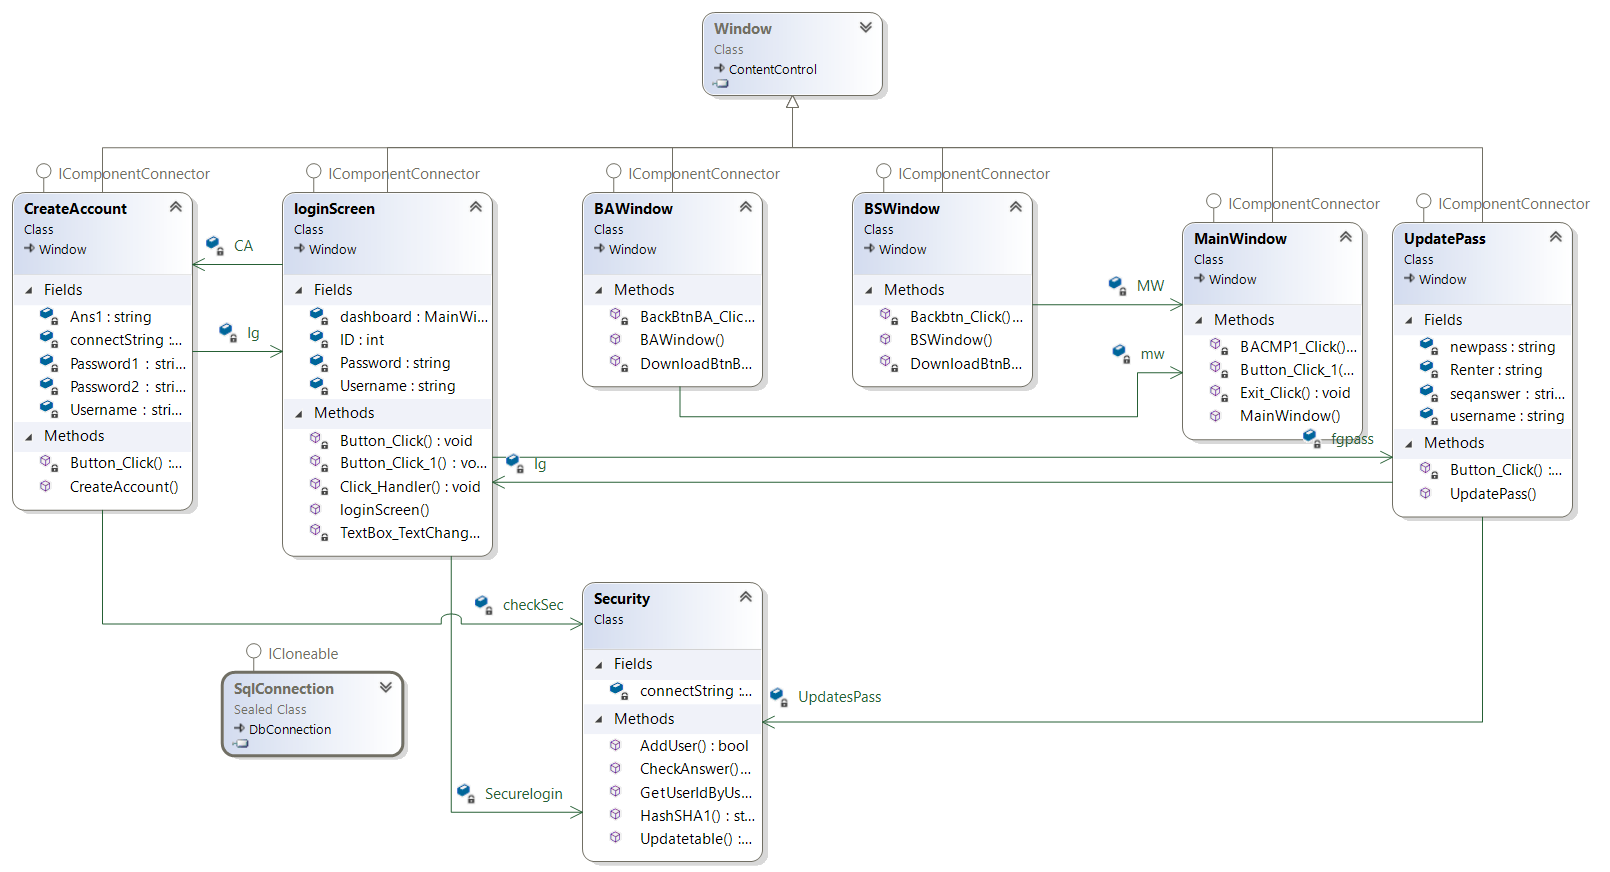
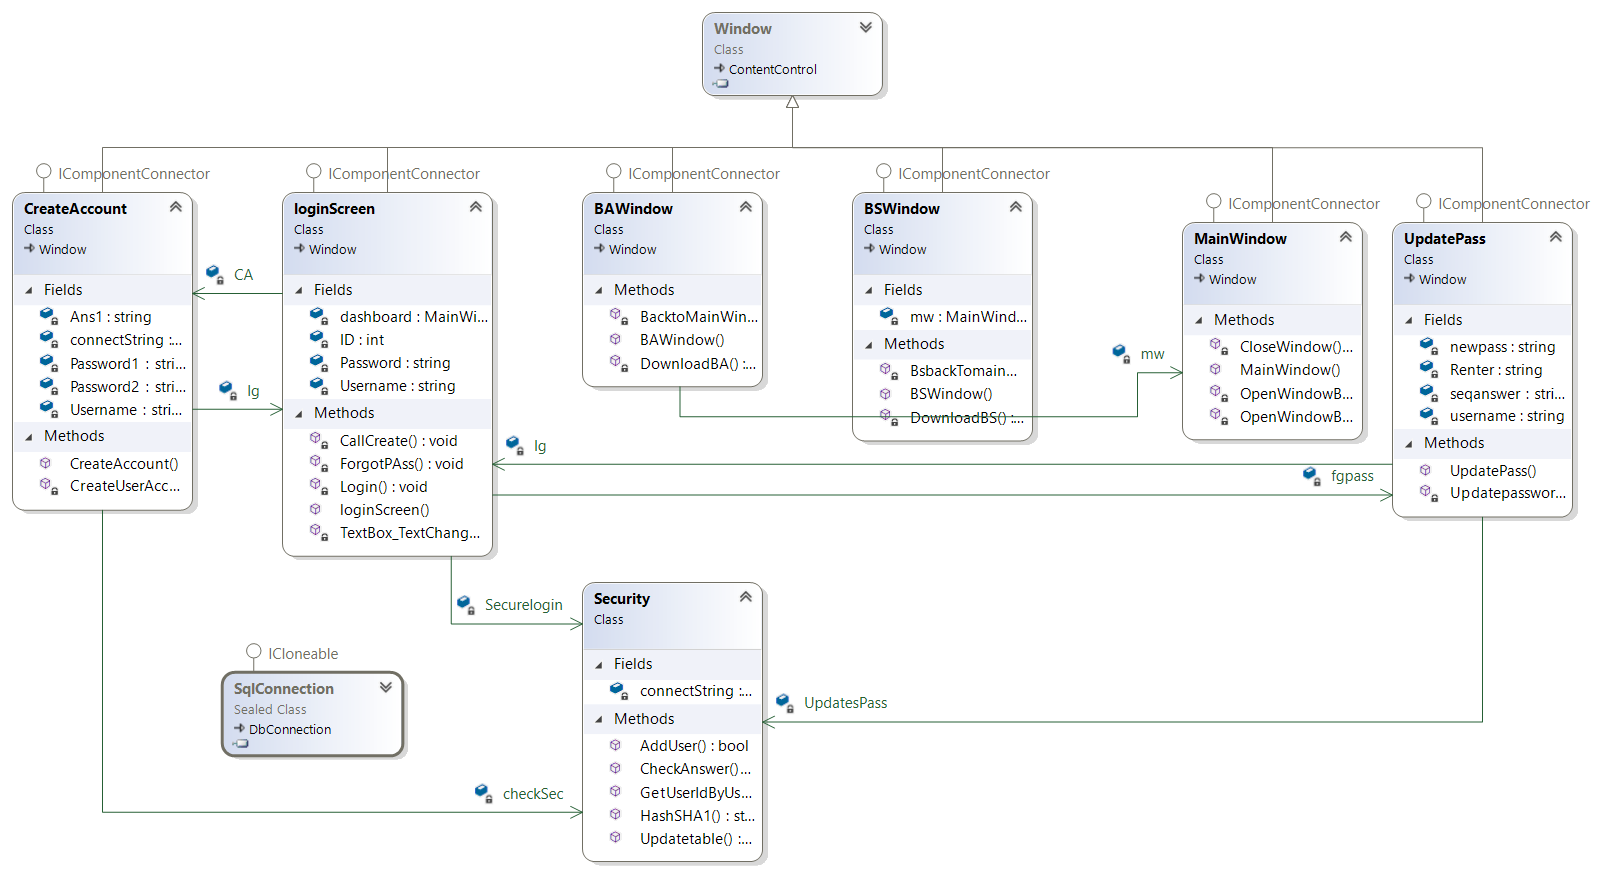
updated class diagram

diff --git a/PrototypeSWE/loginScreen.xaml b/PrototypeSWE/loginScreen.xaml
@@ -13,12 +13,12 @@
         <TextBox Name="txtUser" Height="31" Margin="33,134,303,0" TextWrapping="Wrap" VerticalAlignment="Top" TextChanged="TextBox_TextChanged" AutomationProperties.IsRequiredForForm="True" />
         <Label Content="Password *"  Margin="35,165,469,0" VerticalAlignment="Top" FontSize="20" RenderTransformOrigin="0.592,1.529" Height="34" FontStyle="Italic"/>
         <PasswordBox Name="txtpass"  Margin="34,215,303,0" VerticalAlignment="Top" Height="33" AutomationProperties.IsRequiredForForm="True"/>
-        <Button Content="Submit"  Margin="199,323,279,0" VerticalAlignment="Top" Background="#0288D1" Click="Button_Click" RenderTransformOrigin="0.513,1.033" Height="23" FontWeight="Bold" FontStyle="Italic"/>
-        <Button Content="Create New Account" Height="26" Margin="179,422,261,0" VerticalAlignment="Top" Background="#00C853" Click="Button_Click_1" RenderTransformOrigin="1.213,0.215" FontStyle="Italic" FontSize="16"/>
+        <Button Content="Submit"  Margin="199,323,279,0" VerticalAlignment="Top" Background="#0288D1" Click="Login" RenderTransformOrigin="0.513,1.033" Height="23" FontWeight="Bold" FontStyle="Italic"/>
+        <Button Content="Create New Account" Height="26" Margin="179,422,261,0" VerticalAlignment="Top" Background="#00C853" Click="CallCreate" RenderTransformOrigin="1.213,0.215" FontStyle="Italic" FontSize="16"/>
         <Label x:Name="loginError" Content="" Height="27" Margin="0,270,290,0" VerticalAlignment="Top" RenderTransformOrigin="0.515,0.957" HorizontalAlignment="Right" Width="277">
 
         </Label>
-        <Button Content="Forgot password?" Click="Click_Handler"  x:Name="forgotpass"  HorizontalAlignment="Left" Margin="209,363,0,0" VerticalAlignment="Top" Width="124" FontStyle="Italic" Foreground="#FF0445F1" RenderTransformOrigin="0.571,-0.624" Height="19" FontWeight="Bold" FontSize="12">
+        <Button Content="Forgot password?" Click="ForgotPAss"  x:Name="forgotpass"  HorizontalAlignment="Left" Margin="209,363,0,0" VerticalAlignment="Top" Width="124" FontStyle="Italic" Foreground="#FF0445F1" RenderTransformOrigin="0.571,-0.624" Height="19" FontWeight="Bold" FontSize="12">
             <Button.Template>
                 <ControlTemplate TargetType="{x:Type Button}">
                     <ContentPresenter />

diff --git a/PrototypeSWE/MainWindow.xaml b/PrototypeSWE/MainWindow.xaml
@@ -12,9 +12,9 @@
         <Grid >
             <Label   x:Name="Heading" Content="&#x9;&#x9;Welcome to Major Map&#xA;&#x9;"  HorizontalAlignment="Center" Height="66" Margin="72,47,0,0" VerticalAlignment="Top" Width="595" FontSize="22" FontWeight="Bold" FontStyle="Italic" Foreground="#FF2269E6"/>
             <Label   x:Name="headingSmall" Content="&#x9;Suggested program plan for a Computer Science major" Height="25" Margin="204,73,178,0" VerticalAlignment="Top" Width="380" Foreground="#FF2269E6"/>
-            <Button x:Name="BSCMPS" Content="BS" HorizontalAlignment="Left" Height="40" Margin="20,155,0,0" VerticalAlignment="Top" Width="201" Click="Button_Click_1" Background="#F4F9FE" Foreground="#FF2269E6" FontSize="20" FontWeight="Bold" FontStyle="Italic"/>
-            <Button x:Name="BACMP1" Content="BA" HorizontalAlignment="Right" Height="40" Margin="0,155,31,0" VerticalAlignment="Top" Width="201" Background="#F4F9FE"  Foreground="#FF2269E6" FontWeight="Bold" FontSize="20" FontStyle="Italic" Click="BACMP1_Click"/>
-            <Button x:Name="Exit" Content="X" Margin="721,10,0,0" Width="31" RenderTransformOrigin="-2.573,0.527" FontSize="20" Background="#FFF5EDED" Click="Exit_Click" VerticalAlignment="Top" HorizontalAlignment="Right"/>
+            <Button x:Name="BSCMPS" Content="BS" HorizontalAlignment="Left" Height="40" Margin="20,155,0,0" VerticalAlignment="Top" Width="201" Click="OpenWindowBS" Background="#F4F9FE" Foreground="#FF2269E6" FontSize="20" FontWeight="Bold" FontStyle="Italic"/>
+            <Button x:Name="BACMP1" Content="BA" HorizontalAlignment="Right" Height="40" Margin="0,155,31,0" VerticalAlignment="Top" Width="201" Background="#F4F9FE"  Foreground="#FF2269E6" FontWeight="Bold" FontSize="20" FontStyle="Italic" Click="OpenWindowBA"/>
+            <Button x:Name="Exit" Content="X" Margin="721,10,0,0" Width="31" RenderTransformOrigin="-2.573,0.527" FontSize="20" Background="#FFF5EDED" Click="CloseWindow" VerticalAlignment="Top" HorizontalAlignment="Right"/>
         </Grid>
         <Separator Height="2" Margin="0,104,0,0" VerticalAlignment="Top" Foreground="#FF080808"/>
     </Grid>

diff --git a/PrototypeSWE/BAWindow.xaml b/PrototypeSWE/BAWindow.xaml
@@ -20,8 +20,8 @@
         <Border BorderBrush="#FF0655A4" BorderThickness="2" HorizontalAlignment="Left" Height="337" Margin="7,65,0,0" VerticalAlignment="Top" Width="240"/>
         <Label Content="Arrows show relationships" HorizontalAlignment="Left" Height="29" Margin="90,201,0,0" VerticalAlignment="Top" Width="148"/>
         <Button x:Name="EditBA" Content="Edit Map" HorizontalAlignment="Right" Margin="0,0,21,107" VerticalAlignment="Bottom" Width="75" Height="26" Background="#FF075DB2" Foreground="#FFF7F6F6" VerticalContentAlignment="Center"/>
-        <Button x:Name="BackBtnBA" Content="Back" HorizontalAlignment="Right" Margin="0,65,21,0" VerticalAlignment="Top" Width="75" Height="28" Background="#FF075DB2" Click="BackBtnBA_Click" Foreground="#FFF9F9F9"/>
-        <Button x:Name="DownloadBtnBA" Content="Download" HorizontalAlignment="Left" Margin="604,0,0,104" Width="75" Height="26" Background="#FF075DB2" Foreground="#FFF7F6F6" VerticalContentAlignment="Center" VerticalAlignment="Bottom" Click="DownloadBtnBA_Click"/>
+        <Button x:Name="BackBtnBA" Content="Back" HorizontalAlignment="Right" Margin="0,65,21,0" VerticalAlignment="Top" Width="75" Height="28" Background="#FF075DB2" Click="BacktoMainWindow" Foreground="#FFF9F9F9"/>
+        <Button x:Name="DownloadBtnBA" Content="Download" HorizontalAlignment="Left" Margin="604,0,0,104" Width="75" Height="26" Background="#FF075DB2" Foreground="#FFF7F6F6" VerticalContentAlignment="Center" VerticalAlignment="Bottom" Click="DownloadBA"/>
 
     </Grid>
 </Window>

diff --git a/PrototypeSWE/BSWindow.xaml b/PrototypeSWE/BSWindow.xaml
@@ -18,8 +18,8 @@
         <Border BorderBrush="#FF0655A4" BorderThickness="2" HorizontalAlignment="Left" Height="337" Margin="7,65,0,0" VerticalAlignment="Top" Width="240"/>
         <Label Content="Arrows show relationships" HorizontalAlignment="Left" Height="29" Margin="90,201,0,0" VerticalAlignment="Top" Width="148"/>
         <Button x:Name="EditBS" Content="Edit Map" HorizontalAlignment="Right" Margin="0,0,21,107" VerticalAlignment="Bottom" Width="75" Height="26" Background="#FF075DB2" Foreground="#FFF7F6F6" VerticalContentAlignment="Center"/>
-        <Button x:Name="Backbtn" Content="Back" HorizontalAlignment="Right" Margin="0,65,21,0" VerticalAlignment="Top" Width="75" Height="28" Background="#FF075DB2" Click="Backbtn_Click" Foreground="#FFFBFAFA"/>
-        <Button x:Name="DownloadBtnBS" Content="Download" HorizontalAlignment="Left" Margin="914,0,0,103" Width="75" Height="26" Background="#FF075DB2" Foreground="#FFF7F6F6" VerticalContentAlignment="Center" VerticalAlignment="Bottom" Click="DownloadBtnBS_Click"/>
+        <Button x:Name="Backbtn" Content="Back" HorizontalAlignment="Right" Margin="0,65,21,0" VerticalAlignment="Top" Width="75" Height="28" Background="#FF075DB2" Click="BsbackTomainWindow" Foreground="#FFFBFAFA"/>
+        <Button x:Name="DownloadBtnBS" Content="Download" HorizontalAlignment="Left" Margin="914,0,0,103" Width="75" Height="26" Background="#FF075DB2" Foreground="#FFF7F6F6" VerticalContentAlignment="Center" VerticalAlignment="Bottom" Click="DownloadBS"/>
 
     </Grid>
 </Window>

diff --git a/PrototypeSWE/CreateAccount.xaml b/PrototypeSWE/CreateAccount.xaml
@@ -35,7 +35,7 @@
                 </StackPanel>
             </PasswordBox.ToolTip>
         </PasswordBox>
-        <Button Content="Submit" HorizontalAlignment="Left" Margin="255,380,0,0" VerticalAlignment="Top" Width="185" Background="#0288D1" Click="Button_Click" RenderTransformOrigin="0.607,2.698" Height="41" FontSize="18"/>
+        <Button Content="Submit" HorizontalAlignment="Left" Margin="255,380,0,0" VerticalAlignment="Top" Width="185" Background="#0288D1" Click="CreateUserAccount" RenderTransformOrigin="0.607,2.698" Height="41" FontSize="18"/>
         <Label x:Name="ExistUser" Content="" HorizontalAlignment="Left" Margin="237,95,0,0" VerticalAlignment="Top" Width="217" Height="27" Foreground="#FFE80B0B"/>
         <Label Content="Confirm Password *" HorizontalAlignment="Left" Margin="14,217,0,0" VerticalAlignment="Top" Height="29" Width="167" FontSize="18"/>
         <Label x:Name="incorrect" Content="" HorizontalAlignment="Left" Margin="230,331,0,0" VerticalAlignment="Top" Width="277" Height="29" Foreground="#FFF30606"/>

diff --git a/PrototypeSWE/UpdatePass.xaml b/PrototypeSWE/UpdatePass.xaml
@@ -31,7 +31,7 @@
             </TextBox>
             <Label Content="Re enter Password" HorizontalAlignment="Left" Margin="41,230,0,0" VerticalAlignment="Top" Width="114"/>
         <TextBox x:Name="RnewPass" HorizontalAlignment="Left" Height="26" Margin="41,256,0,0" TextWrapping="Wrap" VerticalAlignment="Top" Width="248" AutomationProperties.IsRequiredForForm="True"/>
-        <Button Content="Submit" HorizontalAlignment="Left" Height="22" Margin="91,337,0,0" VerticalAlignment="Top" Width="114" Background="#0288D1" Click="Button_Click"/>
+        <Button Content="Submit" HorizontalAlignment="Left" Height="22" Margin="91,337,0,0" VerticalAlignment="Top" Width="114" Background="#0288D1" Click="Updatepassword"/>
         <Label x:Name="wrngpass" Content="" HorizontalAlignment="Left" Height="27" Margin="41,287,0,0" VerticalAlignment="Top" Width="193"/>
 
     </Grid>

diff --git a/PrototypeSWE/MainWindow.xaml.cs b/PrototypeSWE/MainWindow.xaml.cs
@@ -25,7 +25,7 @@ namespace PrototypeSWE
             InitializeComponent();
         }
 
-        private void Button_Click_1(object sender, RoutedEventArgs e)
+        private void OpenWindowBS(object sender, RoutedEventArgs e)
         {
             BSWindow bs = new BSWindow();
             bs.Show();
@@ -33,14 +33,14 @@ namespace PrototypeSWE
            
         }
 
-        private void BACMP1_Click(object sender, RoutedEventArgs e)
+        private void OpenWindowBA(object sender, RoutedEventArgs e)
         {
             BAWindow ba = new BAWindow();
             ba.Show();
             this.Close();
         }
 
-        private void Exit_Click(object sender, RoutedEventArgs e)
+        private void CloseWindow(object sender, RoutedEventArgs e)
         {
             this.Close();
         }

diff --git a/PrototypeSWE/loginScreen.xaml.cs b/PrototypeSWE/loginScreen.xaml.cs
@@ -38,7 +38,7 @@ namespace PrototypeSWE
 
         }
 
-        private void Button_Click(object sender, RoutedEventArgs e)
+        private void Login(object sender, RoutedEventArgs e)
         {
             Username = txtUser.Text;
             Password = txtpass.Password;
@@ -59,14 +59,14 @@ namespace PrototypeSWE
             }
         }
 
-        private void Button_Click_1(object sender, RoutedEventArgs e)
+        private void CallCreate(object sender, RoutedEventArgs e)
         {
             CA = new CreateAccount();
             CA.Show();
             this.Close();
         }
 
-        private void Click_Handler(object sender, RoutedEventArgs e)
+        private void ForgotPAss(object sender, RoutedEventArgs e)
         {
             fgpass = new UpdatePass();
             fgpass.Show();

diff --git a/PrototypeSWE/BSWindow.xaml.cs b/PrototypeSWE/BSWindow.xaml.cs
@@ -26,14 +26,14 @@ namespace PrototypeSWE
             InitializeComponent();
         }
 
-        private void Backbtn_Click(object sender, RoutedEventArgs e)
+        private void BsbackTomainWindow(object sender, RoutedEventArgs e)
         {
              mw = new MainWindow();
             mw.Show();
             this.Close();
         }
 
-        private void DownloadBtnBS_Click(object sender, RoutedEventArgs e)
+        private void DownloadBS(object sender, RoutedEventArgs e)
         {
             string path = Environment.GetFolderPath(Environment.SpecialFolder.Desktop);
             double screenLeft = SystemParameters.VirtualScreenLeft;

diff --git a/PrototypeSWE/BAWindow.xaml.cs b/PrototypeSWE/BAWindow.xaml.cs
@@ -26,14 +26,14 @@ namespace PrototypeSWE
             InitializeComponent();
         }
 
-        private void BackBtnBA_Click(object sender, RoutedEventArgs e)
+        private void BacktoMainWindow(object sender, RoutedEventArgs e)
         {
             mw = new MainWindow();
             mw.Show();
             this.Close();
         }
 
-        private void DownloadBtnBA_Click(object sender, RoutedEventArgs e)
+        private void DownloadBA(object sender, RoutedEventArgs e)
         {
             string path = Environment.GetFolderPath(Environment.SpecialFolder.Desktop);
             double screenLeft = SystemParameters.VirtualScreenLeft;

diff --git a/PrototypeSWE/CreateAccount.xaml.cs b/PrototypeSWE/CreateAccount.xaml.cs
@@ -42,7 +42,7 @@ namespace PrototypeSWE
          * then it adds the user to the database
          * and goes to th elogin page
          */
-        private void Button_Click(object sender, RoutedEventArgs e)
+        private void CreateUserAccount(object sender, RoutedEventArgs e)
         {
              Password1 = txtpass.Password;
              Password2 = confirmPass.Password;

diff --git a/PrototypeSWE/UpdatePass.xaml.cs b/PrototypeSWE/UpdatePass.xaml.cs
@@ -32,7 +32,7 @@ namespace PrototypeSWE
             InitializeComponent();
         }
 
-        private void Button_Click(object sender, RoutedEventArgs e)
+        private void Updatepassword(object sender, RoutedEventArgs e)
         {
             username = UserName.Text;
             seqanswer = SeqAnswer.Text;
